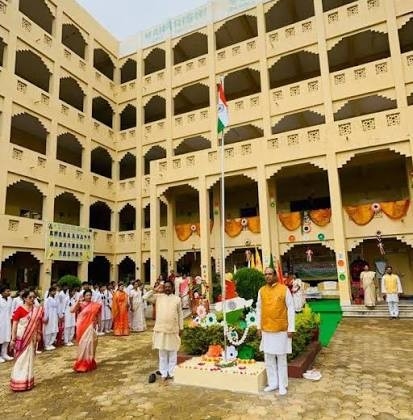
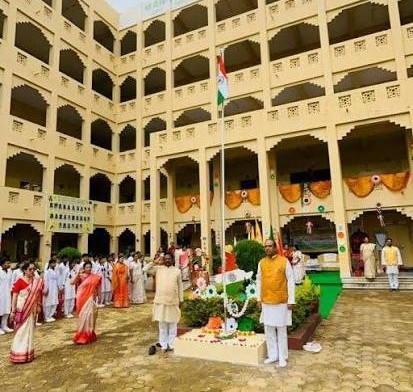
update all files

diff --git a/index.html b/index.html
@@ -62,7 +62,7 @@
                                     d="M22.6467 11.9993L24 11.2716L22.6467 10.5222V10.1666C22.6467 10.1666 23.0278 8.23413 20.862 9.24464C20.7517 9.30465 20.6924 9.36542 20.6684 9.42468L11.7367 4.47119L0 11.1884L4.43211 13.2019V12.5485C4.43211 12.5485 8.15079 10.4607 11.9625 10.4607C15.7734 10.4607 19.6092 12.4899 19.6092 12.4899V13.631L22.0563 12.3167V17.6377H21.2416V19.529L22.3248 18.7803L23.5274 19.529V17.637H22.6467V11.9993ZM22.0555 9.83803V10.1944L21.3413 9.79827C21.6017 9.62573 22.0555 9.38642 22.0555 9.83803ZM21.814 11.9251C21.737 11.9279 21.6603 11.9152 21.5883 11.8877C21.5164 11.8602 21.4507 11.8185 21.3952 11.7651C21.3398 11.7117 21.2956 11.6476 21.2655 11.5768C21.2353 11.5059 21.2198 11.4297 21.2197 11.3527C21.2197 11.2757 21.2351 11.1994 21.2652 11.1285C21.2953 11.0576 21.3393 10.9935 21.3947 10.94C21.4501 10.8865 21.5157 10.8447 21.5876 10.8172C21.6595 10.7896 21.7362 10.7768 21.8132 10.7795C21.9615 10.7848 22.102 10.8474 22.2051 10.9542C22.3082 11.0609 22.3659 11.2035 22.366 11.3519C22.3661 11.5003 22.3086 11.643 22.2056 11.7499C22.1027 11.8568 21.9623 11.9196 21.814 11.9251Z">
                                 </path>
                             </svg>
-                            Welcome to Bilaspur School
+                            Welcome to MVMBilaspur-1 School
                         </span>
                         </div>
                     </div>
@@ -305,7 +305,8 @@
                     <div class="header-left">
                         <div class="header-logo-wrapper">
                             <div class="header-logo">
-                                <a class="logo-white" href="index.html"><img src="assets/images/mvmbilaspur/mvmbilaspur1 (1).webp" alt="logo"></a>
+                                <!-- <a class="logo-white" href="index.html"><img src="assets/images/mvmbilaspur/mvmbilaspur1 (1).webp" alt="logo"></a> -->
+                                <a class="logo-white" href="index.html"><img src="assets/images/mvmbilaspur/mvmbilaspur1 (3).webp" alt="logo"></a>
                                 <a class="logo-red" href="index.html"><img src="assets/images/logo/logo-red.webp" alt="logo"></a>
                             </div>
                         </div>
@@ -1468,7 +1469,7 @@ Established in <strong>1992</strong>, Maharishi Vidya Mandir, Bilaspur is one of
                                     </div>
                                 </div>
                                 <div class="rs-campus-life-item">
-                                    <div class="rs-campus-life-thumb">
+                                    <div class="rs-campus-life-thumb" style="height: 360px;">
                                         <img src="https://mvmbilaspur-1.org/images/mvm-india-map.gif" alt="image">
                                     </div>
                                 </div>

diff --git a/assets/css/main.css b/assets/css/main.css
@@ -9388,7 +9388,7 @@ html.lenis body {
   fill: var(--rs-white);
 }
 .rs-footer-one.has-theme-red-two .rs-footer-social a {
-  background: #21252D;
+  background: var(--rs-theme-red);
 }
 .rs-footer-one.has-theme-red-two .rs-footer-social a:hover {
   background: var(--rs-theme-red);
